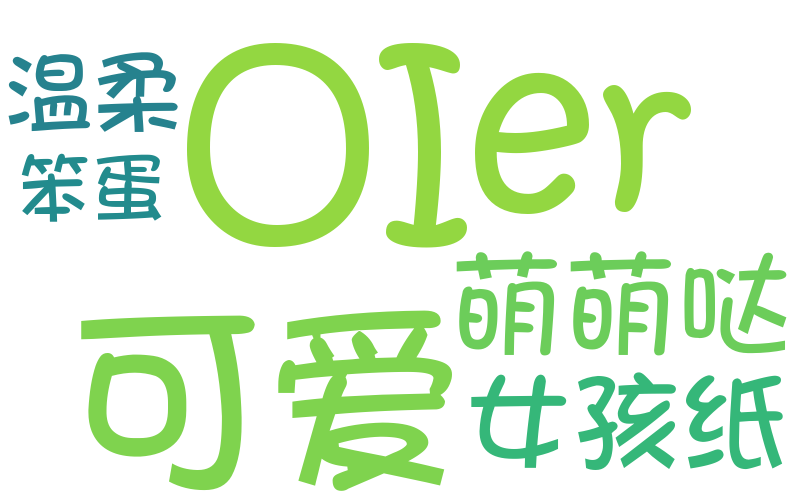
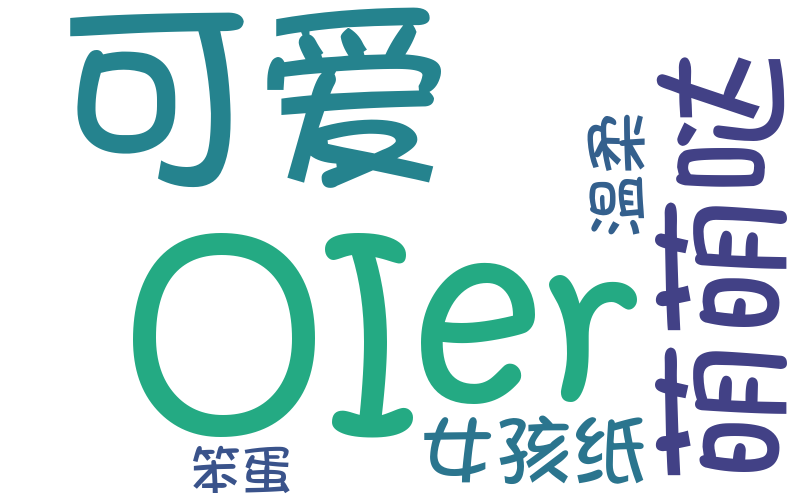
Build by CI

diff --git a/README.md b/README.md
@@ -1,6 +1,6 @@
-<!-- This file was automatically generated at Sat Mar 22 2025 01:22:34 GMT+0000 (Coordinated Universal Time) -->
+<!-- This file was automatically generated at Sun Mar 23 2025 01:36:21 GMT+0000 (Coordinated Universal Time) -->
 
- <a href="https://github.com/memset0/memset0/blob/master/pages/tags.md"> <img align="right" width="400" src="https://cdn.jsdelivr.net/gh/memset0/memset0/assets/tagcloud.png?h=4162a9&c=1742606549280" height="250" /> </a> 
+ <a href="https://github.com/memset0/memset0/blob/master/pages/tags.md"> <img align="right" width="400" src="https://cdn.jsdelivr.net/gh/memset0/memset0/assets/tagcloud.png?h=89f9e9&c=1742693777261" height="250" /> </a> 
 
 ### Hello, this is *memset0*. 👋
 
